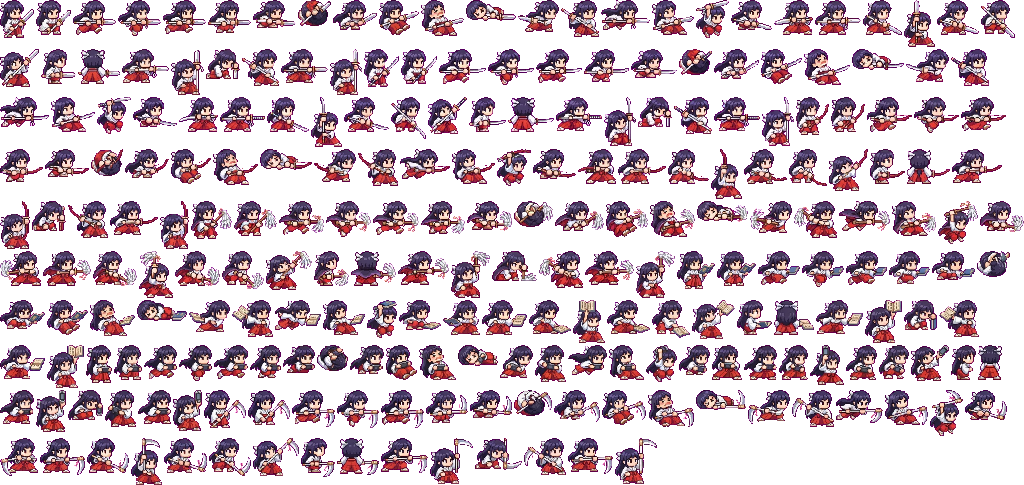
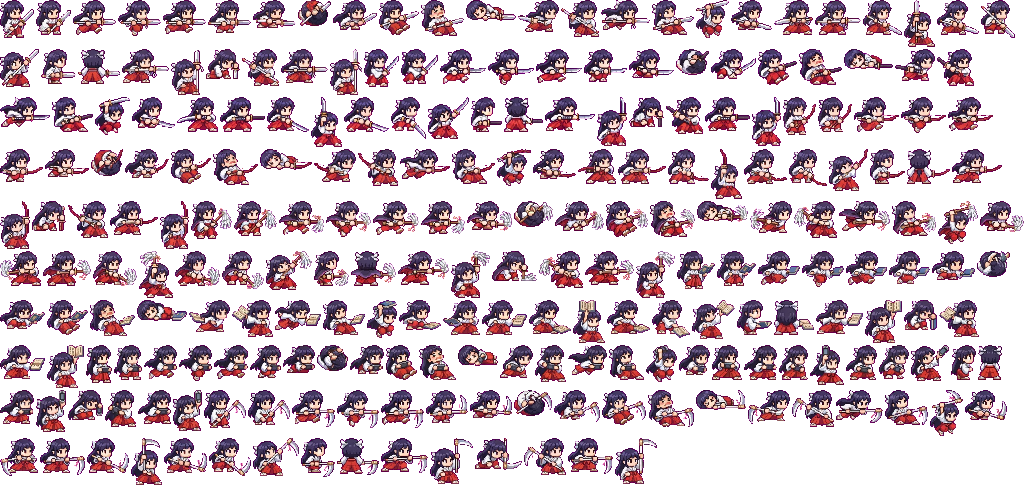
替换白衣巫女太刀动作帧

Changed region(s): [[0.0, 0.0928, 1.0, 0.3093]]

diff --git a/docs/TODO.md b/docs/TODO.md
@@ -408,3 +408,4 @@
 ## 白衣巫女
 - 接入白衣巫女七武器 231 帧，第一张为剑，第七张太刀素材用于枪系动作。角色沿用基础属性。
 - 231 帧通过非空与越界检查。Chrome 基础核对电脑及手机竖屏选人、镰刀实战、高塔、宫殿、校准页，无脚本错误。
+- 用新太刀素材替换白衣巫女枪系 33 帧，更新图集和对比图，复核其余六系帧像素与锚点一致。
